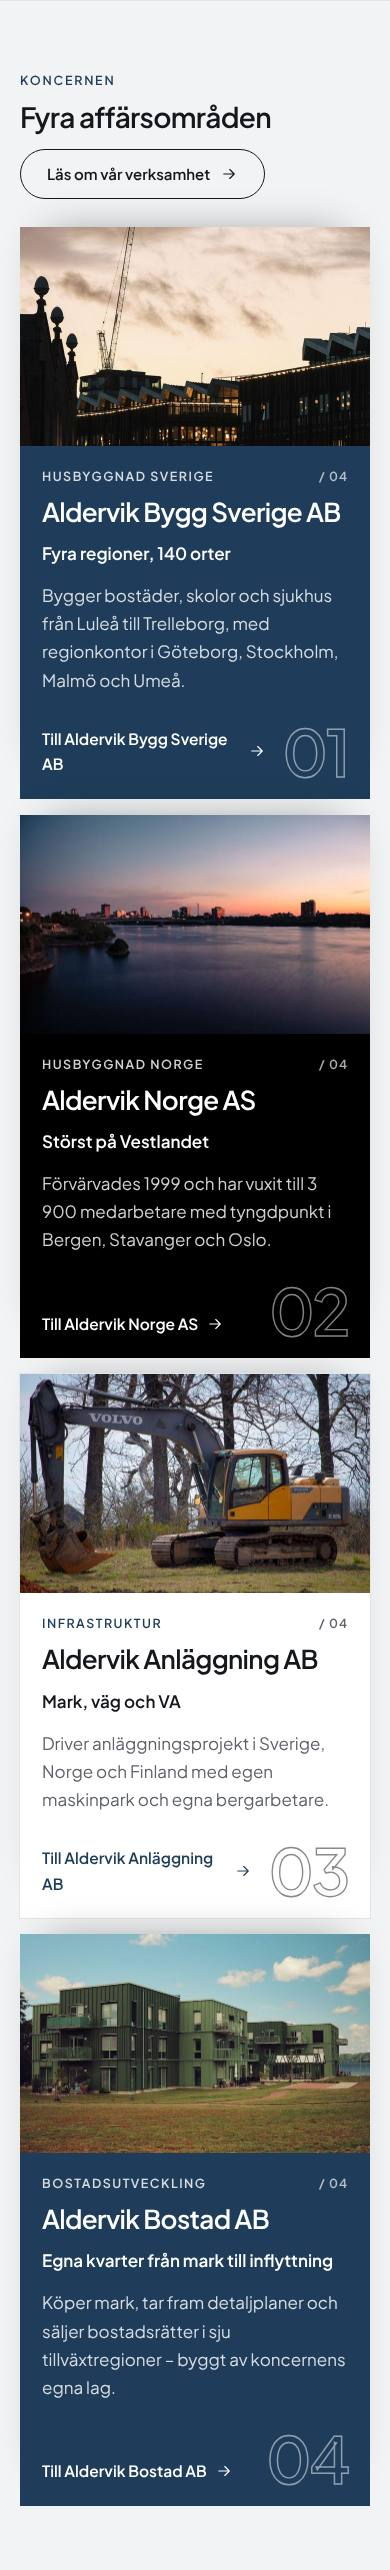
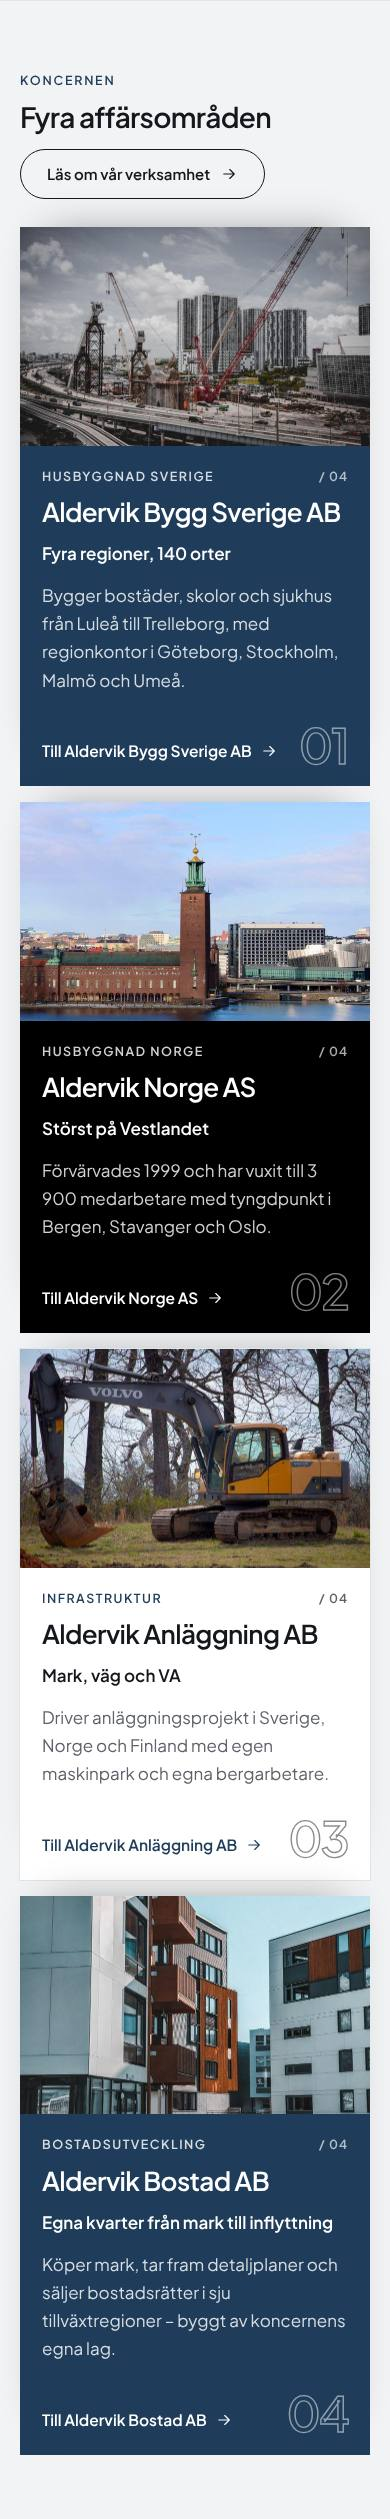
Sektionsvarianter E (vägval, bolag, siffror)
Claude-Session: https://claude.ai/code/session_01Rabk6XbvqVoZd5Z37tFaDM

diff --git a/site/sektioner/bolag-e-stapel.html b/site/sektioner/bolag-e-stapel.html
@@ -9,7 +9,7 @@
 <meta property="og:title" content="Bolag / team – e-stapel"><meta property="og:description" content="Sektionsvariant"><meta property="og:image" content="../bildbank/176342.jpg">
 <link rel="preconnect" href="https://fonts.googleapis.com"><link rel="preconnect" href="https://fonts.gstatic.com" crossorigin><link rel="stylesheet" href="https://fonts.googleapis.com/css2?family=Plus+Jakarta+Sans:wght@400;500;600;700&display=swap">
 <link rel="stylesheet" href="assets/tokens.css?v=ddda7337">
-<link rel="stylesheet" href="assets/bas.css?v=d44ebf36">
+<link rel="stylesheet" href="assets/bas.css?v=7dad62e2">
 <link rel="icon" href="assets/favicon.svg" type="image/svg+xml">
 </head>
 <body data-hero="statement" data-header="ljus" data-meny="inline" data-ruta="mork" data-kort="overlay" data-knapp="fylld" data-projekt="karusell" data-nyheter="lista" data-sidhero="bild" data-motiv="inget" data-herotext="standard" data-rubrik="standard" data-kursiv="0">
@@ -33,7 +33,7 @@
   </nav>
 </header>
 <main id="main">
-<div class="katalog-del" data-namn="bolag/e-stapel"><section class="ev sek pa-yta" aria-labelledby="bo-h"><div class="wrap"><div class="sek-huvud"><div><span class="etikett">Koncernen</span><h2 id="bo-h">Fyra affärsområden</h2></div><a class="knapp knapp-kontur" href="verksamhet.html"><span>Läs om vår verksamhet</span><svg class="pil" viewBox="0 0 24 24" fill="none" stroke="currentColor" stroke-width="1.5" stroke-linecap="round" stroke-linejoin="round" aria-hidden="true"><path d="M5 12h14M13 6l6 6-6 6"/></svg></a></div><ul class="est"><li style="--i:0"><article class="est-kort"><div class="est-bild"><img src="../bildbank/34522411.jpg" srcset="../bildbank/34522411-s.jpg 700w, ../bildbank/34522411.jpg 1600w" sizes="(min-width:960px) 50vw, 100vw" alt="Byggkran i skymningen" loading=lazy decoding="async"></div><div class="est-text"><div class="est-rad"><span class="est-seg">Husbyggnad Sverige</span><span class="est-nr">/ 04</span></div><h3>Aldervik Bygg Sverige AB</h3><p class=est-rubrik>Fyra regioner, 140 orter</p><p>Bygger bostäder, skolor och sjukhus från Luleå till Trelleborg, med regionkontor i Göteborg, Stockholm, Malmö och Umeå.</p><div class="est-fot"><a class="textlank" href="bolag.html#bolag-0"><span>Till Aldervik Bygg Sverige AB</span><svg class="pil" viewBox="0 0 24 24" fill="none" stroke="currentColor" stroke-width="1.5" stroke-linecap="round" stroke-linejoin="round" aria-hidden="true"><path d="M5 12h14M13 6l6 6-6 6"/></svg></a><span class="est-stor" aria-hidden="true">01</span></div></div></article></li><li style="--i:1"><article class="est-kort"><div class="est-bild"><img src="../bildbank/ov97bb32ec41.jpg" srcset="../bildbank/ov97bb32ec41-s.jpg 700w, ../bildbank/ov97bb32ec41.jpg 1600w" sizes="(min-width:960px) 50vw, 100vw" alt="Stadssiluett" loading=lazy decoding="async"></div><div class="est-text"><div class="est-rad"><span class="est-seg">Husbyggnad Norge</span><span class="est-nr">/ 04</span></div><h3>Aldervik Norge AS</h3><p class=est-rubrik>Störst på Vestlandet</p><p>Förvärvades 1999 och har vuxit till 3 900 medarbetare med tyngdpunkt i Bergen, Stavanger och Oslo.</p><div class="est-fot"><a class="textlank" href="bolag.html#bolag-1"><span>Till Aldervik Norge AS</span><svg class="pil" viewBox="0 0 24 24" fill="none" stroke="currentColor" stroke-width="1.5" stroke-linecap="round" stroke-linejoin="round" aria-hidden="true"><path d="M5 12h14M13 6l6 6-6 6"/></svg></a><span class="est-stor" aria-hidden="true">02</span></div></div></article></li><li style="--i:2"><article class="est-kort"><div class="est-bild"><img src="../bildbank/12063807.jpg" srcset="../bildbank/12063807-s.jpg 700w, ../bildbank/12063807.jpg 1600w" sizes="(min-width:960px) 50vw, 100vw" alt="Grävmaskin på arbetsplats" loading=lazy decoding="async"></div><div class="est-text"><div class="est-rad"><span class="est-seg">Infrastruktur</span><span class="est-nr">/ 04</span></div><h3>Aldervik Anläggning AB</h3><p class=est-rubrik>Mark, väg och VA</p><p>Driver anläggningsprojekt i Sverige, Norge och Finland med egen maskinpark och egna bergarbetare.</p><div class="est-fot"><a class="textlank" href="bolag.html#bolag-2"><span>Till Aldervik Anläggning AB</span><svg class="pil" viewBox="0 0 24 24" fill="none" stroke="currentColor" stroke-width="1.5" stroke-linecap="round" stroke-linejoin="round" aria-hidden="true"><path d="M5 12h14M13 6l6 6-6 6"/></svg></a><span class="est-stor" aria-hidden="true">03</span></div></div></article></li><li style="--i:3"><article class="est-kort"><div class="est-bild"><img src="../bildbank/17644158.jpg" srcset="../bildbank/17644158-s.jpg 700w, ../bildbank/17644158.jpg 1600w" sizes="(min-width:960px) 50vw, 100vw" alt="Nya flerbostadshus i grönt" loading=lazy decoding="async"></div><div class="est-text"><div class="est-rad"><span class="est-seg">Bostadsutveckling</span><span class="est-nr">/ 04</span></div><h3>Aldervik Bostad AB</h3><p class=est-rubrik>Egna kvarter från mark till inflyttning</p><p>Köper mark, tar fram detaljplaner och säljer bostadsrätter i sju tillväxtregioner – byggt av koncernens egna lag.</p><div class="est-fot"><a class="textlank" href="bolag.html#bolag-3"><span>Till Aldervik Bostad AB</span><svg class="pil" viewBox="0 0 24 24" fill="none" stroke="currentColor" stroke-width="1.5" stroke-linecap="round" stroke-linejoin="round" aria-hidden="true"><path d="M5 12h14M13 6l6 6-6 6"/></svg></a><span class="est-stor" aria-hidden="true">04</span></div></div></article></li></ul></div></section></div>
+<div class="katalog-del" data-namn="bolag/e-stapel"><section class="ev sek pa-yta" aria-labelledby="bo-h"><div class="wrap"><div class="sek-huvud"><div><span class="etikett">Koncernen</span><h2 id="bo-h">Fyra affärsområden</h2></div><a class="knapp knapp-kontur" href="verksamhet.html"><span>Läs om vår verksamhet</span><svg class="pil" viewBox="0 0 24 24" fill="none" stroke="currentColor" stroke-width="1.5" stroke-linecap="round" stroke-linejoin="round" aria-hidden="true"><path d="M5 12h14M13 6l6 6-6 6"/></svg></a></div><ul class="est"><li style="--i:0"><article class="est-kort"><div class="est-bild"><img src="../bildbank/17909242.jpg" srcset="../bildbank/17909242-s.jpg 700w, ../bildbank/17909242.jpg 1600w" sizes="(min-width:960px) 50vw, 100vw" alt="Byggkranar över staden" loading=lazy decoding="async"></div><div class="est-text"><div class="est-rad"><span class="est-seg">Husbyggnad Sverige</span><span class="est-nr">/ 04</span></div><h3>Aldervik Bygg Sverige AB</h3><p class=est-rubrik>Fyra regioner, 140 orter</p><p>Bygger bostäder, skolor och sjukhus från Luleå till Trelleborg, med regionkontor i Göteborg, Stockholm, Malmö och Umeå.</p><div class="est-fot"><a class="textlank" href="bolag.html#bolag-0"><span>Till Aldervik Bygg Sverige AB</span><svg class="pil" viewBox="0 0 24 24" fill="none" stroke="currentColor" stroke-width="1.5" stroke-linecap="round" stroke-linejoin="round" aria-hidden="true"><path d="M5 12h14M13 6l6 6-6 6"/></svg></a><span class="est-stor" aria-hidden="true">01</span></div></div></article></li><li style="--i:1"><article class="est-kort"><div class="est-bild"><img src="../bildbank/30753516.jpg" srcset="../bildbank/30753516-s.jpg 700w, ../bildbank/30753516.jpg 1600w" sizes="(min-width:960px) 50vw, 100vw" alt="Stadshuset i Stockholm vid vattnet" loading=lazy decoding="async"></div><div class="est-text"><div class="est-rad"><span class="est-seg">Husbyggnad Norge</span><span class="est-nr">/ 04</span></div><h3>Aldervik Norge AS</h3><p class=est-rubrik>Störst på Vestlandet</p><p>Förvärvades 1999 och har vuxit till 3 900 medarbetare med tyngdpunkt i Bergen, Stavanger och Oslo.</p><div class="est-fot"><a class="textlank" href="bolag.html#bolag-1"><span>Till Aldervik Norge AS</span><svg class="pil" viewBox="0 0 24 24" fill="none" stroke="currentColor" stroke-width="1.5" stroke-linecap="round" stroke-linejoin="round" aria-hidden="true"><path d="M5 12h14M13 6l6 6-6 6"/></svg></a><span class="est-stor" aria-hidden="true">02</span></div></div></article></li><li style="--i:2"><article class="est-kort"><div class="est-bild"><img src="../bildbank/12063807.jpg" srcset="../bildbank/12063807-s.jpg 700w, ../bildbank/12063807.jpg 1600w" sizes="(min-width:960px) 50vw, 100vw" alt="Grävmaskin på arbetsplats" loading=lazy decoding="async"></div><div class="est-text"><div class="est-rad"><span class="est-seg">Infrastruktur</span><span class="est-nr">/ 04</span></div><h3>Aldervik Anläggning AB</h3><p class=est-rubrik>Mark, väg och VA</p><p>Driver anläggningsprojekt i Sverige, Norge och Finland med egen maskinpark och egna bergarbetare.</p><div class="est-fot"><a class="textlank" href="bolag.html#bolag-2"><span>Till Aldervik Anläggning AB</span><svg class="pil" viewBox="0 0 24 24" fill="none" stroke="currentColor" stroke-width="1.5" stroke-linecap="round" stroke-linejoin="round" aria-hidden="true"><path d="M5 12h14M13 6l6 6-6 6"/></svg></a><span class="est-stor" aria-hidden="true">03</span></div></div></article></li><li style="--i:3"><article class="est-kort"><div class="est-bild"><img src="../bildbank/2119714.jpg" srcset="../bildbank/2119714-s.jpg 700w, ../bildbank/2119714.jpg 1600w" sizes="(min-width:960px) 50vw, 100vw" alt="Vitt bostadshus i höjd" loading=lazy decoding="async"></div><div class="est-text"><div class="est-rad"><span class="est-seg">Bostadsutveckling</span><span class="est-nr">/ 04</span></div><h3>Aldervik Bostad AB</h3><p class=est-rubrik>Egna kvarter från mark till inflyttning</p><p>Köper mark, tar fram detaljplaner och säljer bostadsrätter i sju tillväxtregioner – byggt av koncernens egna lag.</p><div class="est-fot"><a class="textlank" href="bolag.html#bolag-3"><span>Till Aldervik Bostad AB</span><svg class="pil" viewBox="0 0 24 24" fill="none" stroke="currentColor" stroke-width="1.5" stroke-linecap="round" stroke-linejoin="round" aria-hidden="true"><path d="M5 12h14M13 6l6 6-6 6"/></svg></a><span class="est-stor" aria-hidden="true">04</span></div></div></article></li></ul></div></section></div>
 </main>
 <footer class="fot">
   <a class="fot-upp" href="#top">Scrolla till toppen <svg class="ik" viewBox="0 0 24 24" fill="none" stroke="currentColor" stroke-width="1.5" stroke-linecap="round" stroke-linejoin="round" aria-hidden="true"><path d="M12 19V5M6 11l6-6 6 6"/></svg></a>

diff --git a/koncern/mall/varianter_h.css b/koncern/mall/varianter_h.css
@@ -7,7 +7,7 @@
 .pa-farg .hv, .pa-mork .hv { --hv-mut: color-mix(in srgb, currentColor 76%, transparent); --hv-linje: color-mix(in srgb, currentColor 24%, transparent); --hv-rubrik: currentColor; --hv-kort: color-mix(in srgb, currentColor 9%, transparent); --hv-accent: var(--c-a); }
 .pa-farg .hv { --hv-bg: var(--c-p); }
 .pa-mork .hv { --hv-bg: var(--c-dark); }
-.hv h3 { overflow-wrap: break-word; hyphens: auto; }
+.hv h3, .hpd-t b, .hsb-fot b, .hsf-t b { overflow-wrap: anywhere; hyphens: auto; }
 .hv blockquote, .hcs blockquote, .hcp blockquote { margin: 0; }
 .pa-mork .hv .textlank, .pa-farg .hv .textlank { color: inherit; }
 .pa-mork .hv .knapp-primar, .pa-farg .hv .knapp-primar { background: var(--c-a); border-color: var(--c-a); color: var(--c-a-ink); }
@@ -20,7 +20,7 @@
 .hsb-ruta:nth-child(2) { grid-column: 1 / -1; background: var(--c-dark); color: var(--c-dark-ink); }
 .hsb-ruta:nth-child(4) { background: var(--c-a); color: var(--c-a-ink); }
 .pa-farg .hsb-ruta:nth-child(1) { background: var(--c-bg); color: var(--c-ink); }
-.pa-mork .hsb-ruta:nth-child(2) { background: var(--c-p); color: var(--c-p-ink); }
+.pa-mork .hsb-ruta:nth-child(2) { background: var(--c-bg); color: var(--c-ink); }
 .pa-farg .hsb-ruta:nth-child(n+3):not(:nth-child(4)), .pa-mork .hsb-ruta:nth-child(n+3):not(:nth-child(4)) { color: inherit; }
 .hsb-ruta:nth-child(n+4) { grid-column: 1 / -1; }
 .hsb-topp { display: flex; align-items: flex-start; justify-content: space-between; gap: 12px; }
@@ -212,7 +212,7 @@
 .hps-nr { flex: none; min-width: 1.5em; font: var(--w-r) clamp(30px, 3vw, 46px)/1 var(--font-r); letter-spacing: var(--tr-r); color: var(--hv-accent); font-variant-numeric: tabular-nums; }
 .hps-bar { display: block; height: 12px; width: calc(var(--h) * 1%); border-radius: 0 var(--r-card) var(--r-card) 0; background: color-mix(in srgb, var(--c-p) calc(var(--h) * 1%), var(--c-ton)); }
 .pa-ton .hps-bar, .pa-yta .hps-bar { background: color-mix(in srgb, var(--c-p) calc(var(--h) * 1%), var(--c-bg)); }
-.pa-farg .hps-bar, .pa-mork .hps-bar { background: color-mix(in srgb, var(--c-a) calc(var(--h) * 1%), transparent); }
+.pa-farg .hps-bar, .pa-mork .hps-bar { background: color-mix(in srgb, currentColor calc(var(--h) * .55%), transparent); }
 .hps li:last-child .hps-bar { background: var(--c-p); }
 .pa-farg .hps li:last-child .hps-bar, .pa-mork .hps li:last-child .hps-bar { background: var(--c-a); }
 .hps-text h3 { color: var(--hv-rubrik); }
@@ -275,6 +275,8 @@
 .hpp li > p { padding-inline: 4px; color: var(--hv-mut); font-size: 16px; line-height: 1.6; }
 @media (min-width: 900px) {
   .hpp { grid-auto-flow: column; grid-auto-columns: minmax(0, 1fr); gap: 6px; }
+  .hpp.n5, .hpp.n6, .hpp.n7, .hpp.n8 { grid-auto-flow: row; grid-template-columns: repeat(3, minmax(0, 1fr)); row-gap: 36px; }
+  .hpp.n7, .hpp.n8 { grid-template-columns: repeat(4, minmax(0, 1fr)); }
   .hpp-pil { min-height: 150px; padding: 26px 44px 26px 52px; clip-path: polygon(0 0, calc(100% - 28px) 0, 100% 50%, calc(100% - 28px) 100%, 0 100%, 28px 50%); }
   .hpp li:first-child .hpp-pil { padding-left: 30px; clip-path: polygon(0 0, calc(100% - 28px) 0, 100% 50%, calc(100% - 28px) 100%, 0 100%); }
   .hpp li > p { padding: 10px 40px 0 30px; }

diff --git a/site/sektioner/assets/bas.css b/site/sektioner/assets/bas.css
@@ -2773,7 +2773,7 @@ body[data-kursiv="1"] .sek-huvud h2 em, body[data-kursiv="1"] h1 em { font-style
 .est-text p:not(.est-rubrik) { color: var(--c-mut); max-width: 34em; }
 .est-fot { display: flex; justify-content: space-between; align-items: flex-end; gap: 16px; margin-top: auto; padding-top: 18px; }
 .est-text .textlank { color: inherit !important; }
-.est-stor { font: var(--w-siffra) clamp(64px, 8vw, 128px)/.8 var(--font-r); letter-spacing: -.04em; -webkit-text-fill-color: transparent; -webkit-text-stroke: 1.4px currentColor; opacity: .5; }
+.est-stor { flex: none; font: var(--w-siffra) clamp(48px, 8vw, 128px)/.8 var(--font-r); letter-spacing: -.04em; -webkit-text-fill-color: transparent; -webkit-text-stroke: 1.4px currentColor; opacity: .5; }
 .est > li:nth-child(3n+1) .est-kort { background: var(--c-p); color: var(--c-p-ink); box-shadow: 0 -18px 40px -28px rgba(0,0,0,.45); }
 .est > li:nth-child(3n+2) .est-kort { background: var(--c-dark); color: var(--c-dark-ink); box-shadow: 0 -18px 40px -28px rgba(0,0,0,.45); }
 .est > li:not(:nth-child(3n)) .est-rad, .est > li:not(:nth-child(3n)) .est-nr, .est > li:not(:nth-child(3n)) .est-text p:not(.est-rubrik) { color: inherit; opacity: .82; }

diff --git a/koncern/mall/varianter_e.css b/koncern/mall/varianter_e.css
@@ -237,7 +237,7 @@
 .est-text p:not(.est-rubrik) { color: var(--c-mut); max-width: 34em; }
 .est-fot { display: flex; justify-content: space-between; align-items: flex-end; gap: 16px; margin-top: auto; padding-top: 18px; }
 .est-text .textlank { color: inherit !important; }
-.est-stor { font: var(--w-siffra) clamp(64px, 8vw, 128px)/.8 var(--font-r); letter-spacing: -.04em; -webkit-text-fill-color: transparent; -webkit-text-stroke: 1.4px currentColor; opacity: .5; }
+.est-stor { flex: none; font: var(--w-siffra) clamp(48px, 8vw, 128px)/.8 var(--font-r); letter-spacing: -.04em; -webkit-text-fill-color: transparent; -webkit-text-stroke: 1.4px currentColor; opacity: .5; }
 .est > li:nth-child(3n+1) .est-kort { background: var(--c-p); color: var(--c-p-ink); box-shadow: 0 -18px 40px -28px rgba(0,0,0,.45); }
 .est > li:nth-child(3n+2) .est-kort { background: var(--c-dark); color: var(--c-dark-ink); box-shadow: 0 -18px 40px -28px rgba(0,0,0,.45); }
 .est > li:not(:nth-child(3n)) .est-rad, .est > li:not(:nth-child(3n)) .est-nr, .est > li:not(:nth-child(3n)) .est-text p:not(.est-rubrik) { color: inherit; opacity: .82; }
